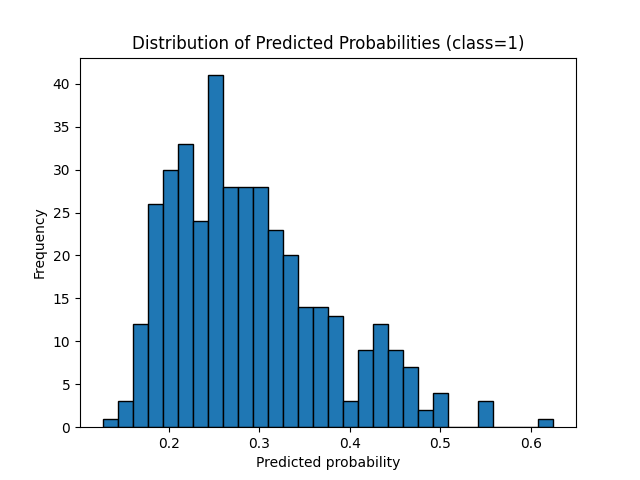
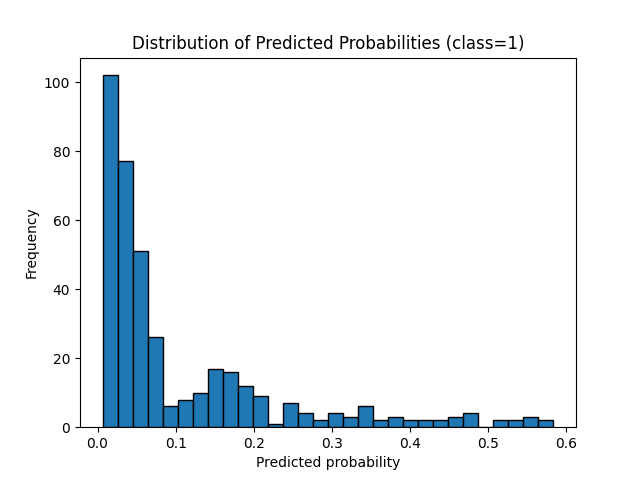
modify threshold

diff --git a/logistic_regression.py b/logistic_regression.py
@@ -58,8 +58,9 @@ df["DXY_z"]      = (df["DXY"] - df["DXY"].rolling(60).mean()) / df["DXY"].rollin
 # ----------------------------#
 # 3. 目標變數 (Label)
 # ----------------------------#
-df["future_ret_5d"] = df["Close"].shift(-5).pct_change(5, fill_method=None)
-df["y"] = (df["future_ret_5d"] > 0).astype(int)
+N = 20                            # modify as needed
+df[f"future_ret_{N}d"] = df["Close"].shift(-N).pct_change(N, fill_method=None)
+df["y"] = (df[f"future_ret_{N}d"] > 0).astype(int)
 
 # ----------------------------#
 # 4. 資料清洗
@@ -93,7 +94,7 @@ clf.fit(X_train, y_train)
 # ----------------------------#
 # 7. 評估模型
 # ----------------------------#
-threshold = 0.42        # modify threshold: 0.25~0.45
+threshold = 0.037        # modify threshold
 y_prob = clf.predict_proba(X_test)[:, 1]
 y_pred = (y_prob > threshold).astype(int)
 
